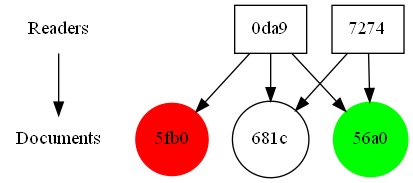
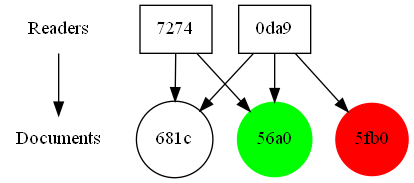
Added database to Alsolikes methods

diff --git a/GUI.py b/GUI.py
@@ -2,6 +2,8 @@ from tkinter import *
 
 import matplotlib
 from PIL import Image, ImageTk
+from matplotlib.backends.backend_tkagg import FigureCanvasTkAgg, NavigationToolbar2Tk
+from matplotlib.figure import Figure
 from pandastable import Table
 
 import Reader
@@ -9,12 +11,11 @@ import Viewer
 import alsoLikes
 
 matplotlib.use("TkAgg")
-from matplotlib.backends.backend_tkagg import FigureCanvasTkAgg, NavigationToolbar2Tk
-from matplotlib.figure import Figure
 
 
 class MyGUIInterface:
-    """This is the Interface package. with the class for GUI"""
+    LABEL_TEXT = ['This is the Interface package.',
+                  'This is the class for GUI,']
 
     def __init__(self, master):
         # Declaration of Variables
@@ -42,6 +43,7 @@ class MyGUIInterface:
         master.configure(background=self.background)
 
     def body(self):
+        """Defines the body of the interface, grid, frames, labels, entry boxes, buttons and their positioning"""
         # Configure grid
         self.master.rowconfigure(0, weight=3)
         self.master.rowconfigure(1, weight=1)
@@ -88,18 +90,20 @@ class MyGUIInterface:
 
         # Dropdown
         view_choice = {'Country', 'Continent', 'Browser', 'All'}
-        self.Drop_Down_views.set('Country')  # set the default option
+        self.Drop_Down_views.set('All')  # set the default option
         view_menu = OptionMenu(self.master, self.Drop_Down_views, *view_choice)
         view_menu.config(bg=self.button_colour, activebackground=self.frame_background, fg=self.text_colour_buttons,
                          activeforeground=self.text_colour_buttons, width=10)
-        view_menu['menu'].config(bg=self.entry_colour, fg=self.text_colour_buttons, borderwidth=0, activeborderwidth=0,
+        view_menu['menu'].config(bg=self.entry_colour, fg=self.text_colour_buttons, borderwidth=0,
+                                 activeborderwidth=0,
                                  activeforeground=self.text_colour_buttons, activebackground=self.frame_background)
         view_menu["highlightthickness"] = 0
 
         sorting_choice = {'Most read', 'Least read'}
         self.Drop_Down_sort.set('Most read')  # set the default option
         sorting_menu = OptionMenu(self.master, self.Drop_Down_sort, *sorting_choice)
-        sorting_menu.config(bg=self.button_colour, activebackground=self.frame_background, fg=self.text_colour_buttons,
+        sorting_menu.config(bg=self.button_colour, activebackground=self.frame_background,
+                            fg=self.text_colour_buttons,
                             activeforeground=self.text_colour_buttons, width=10)
         sorting_menu['menu'].config(bg=self.entry_colour, fg=self.text_colour_buttons, borderwidth=0,
                                     activeborderwidth=0, activeforeground=self.text_colour_buttons,
@@ -120,11 +124,11 @@ class MyGUIInterface:
         graph = Button(self.master, text='Display Graph', width=21, bg=self.button_colour,
                        activebackground=self.frame_background, fg=self.text_colour_buttons,
                        activeforeground=self.text_colour_buttons)
-        graph.bind('<Button-1>', self.sort_choice)
+        graph.bind('<Button-1>', self.graph_alsoLikes)
 
         display.bind('<Button-1>', self.view_display)
 
-        exit_button = Button(self.master, text='Exit')
+        exit_button = Button(self.master, text='Exit', font='100 14 bold', width=10, height=1)
         exit_button.bind('<Button-1>', self.closeGUI)
 
         # Positioning
@@ -162,6 +166,8 @@ class MyGUIInterface:
         exit_button.grid(row=0, column=12, sticky="ne")
 
     def view_display(self, event):
+        """Allows to choose which graph is displayed on the left side of gui, called using Display button on left
+        side """
         if self.Drop_Down_views.get() == 'Country':
             self.country_click()
         if self.Drop_Down_views.get() == 'Continent':
@@ -171,15 +177,8 @@ class MyGUIInterface:
         if self.Drop_Down_views.get() == 'All':
             self.all_click()
 
-    def reader_display(self, event):
-        top10 = Reader.top10('issuu_cw2.json')
-        f = Frame(self.master)
-        f.grid(row=4, column=0, columnspan=5, rowspan=2, sticky='news')
-        self.left_canvas = pt = Table(f, dataframe=top10,
-                                      showtoolbar=True, showstatusbar=True)
-        pt.show()
-
     def country_click(self):
+        """Displays view by country graph on left side"""
         doc = self.document.get()
         database = self.database.get()
         country_group, _ = Viewer.Get_countries(doc, database)
@@ -199,6 +198,7 @@ class MyGUIInterface:
             no_views.grid(row=4, column=0, columnspan=5, rowspan=2, sticky='news')
 
     def continent_click(self):
+        """Displays view by continent graph on left side"""
         doc = self.document.get()
         database = self.database.get()
         _, countries = Viewer.Get_countries(doc, database)
@@ -219,6 +219,7 @@ class MyGUIInterface:
             no_views.grid(row=4, column=0, columnspan=5, rowspan=2, sticky='news')
 
     def browser_click(self):
+        """Displays view by browsers graph on left side"""
         doc = self.document.get()
         database = self.database.get()
         browser_group = Viewer.Get_browser_clean(doc, database)
@@ -238,6 +239,7 @@ class MyGUIInterface:
             no_views.grid(row=4, column=0, columnspan=5, rowspan=2, sticky='news')
 
     def all_click(self):
+        """Displays view by country, continent and browser graphs on left side"""
         doc = self.document.get()
         country_groups, countries = Viewer.Get_countries(doc)
         continent_groups = Viewer.Get_continents(countries)
@@ -267,7 +269,22 @@ class MyGUIInterface:
                              width=24, bg=self.background, fg=self.text_colour)
             no_views.grid(row=4, column=0, columnspan=5, rowspan=2, sticky='news')
 
+    def reader_display(self, event):
+        """Displays top 10 most avid reader table on left side when Show Top 10 readers button is clicked"""
+        top10 = Reader.top10(self.database.get())
+        if not top10.empty:
+            f = Frame(self.master)
+            f.grid(row=4, column=0, columnspan=5, rowspan=2, sticky='news')
+            self.left_canvas = pt = Table(f, dataframe=top10,
+                                          showtoolbar=True, showstatusbar=True)
+            pt.show()
+        else:
+            no_views = Label(self.master, text='Database empty', anchor='center', font=100,
+                             width=24, bg=self.background, fg=self.text_colour)
+            no_views.grid(row=4, column=0, columnspan=5, rowspan=2, sticky='news')
+
     def draw_canvas(self, fig, plot):
+        """Helper function to draw on left canvas"""
         self.left_canvas = FigureCanvasTkAgg(fig, plot)
         self.left_canvas.draw()
         self.left_canvas.get_tk_widget().grid(row=4, column=0, columnspan=5, sticky='news', ipadx=0, ipady=0)
@@ -275,17 +292,25 @@ class MyGUIInterface:
         toolbar.update()
         toolbar.grid(row=5, column=0, columnspan=5, sticky='news')
 
-    def sort_choice(self, event):
-        if self.Drop_Down_sort.get() == 'Most read':
-            self.graph_alsoLikes(alsoLikes.sortDocumentsDesc)
+    def graph_alsoLikes(self, event):
+        """Displays Also likes graph on right canvas when right display button is clicked"""
+        if type(self.document_also) is not str:
+            doc = self.document_also.get()
         else:
-            self.graph_alsoLikes(alsoLikes.sortDocumentsDesc)
-
-    def graph_alsoLikes(self, sort):
-        doc = self.document_also.get()
-        database = self.database_also.get()
-        user = self.user_also.get()
-        graph = alsoLikes.buildGraph(documentIn=doc, userIn=user, sortF=sort)
+            doc = self.document_also
+        if type(self.database_also) is not str:
+            database = self.database_also.get()
+        else:
+            database = self.database_also
+        if type(self.user_also) is not str:
+            user = self.user_also.get()
+        else:
+            user = self.user_also
+        if self.Drop_Down_sort.get() == 'Most read':
+            sortF = alsoLikes.sortDocumentsDesc
+        elif self.Drop_Down_sort.get() == 'Least read':
+            sortF = alsoLikes.sortDocumentsAsc
+        graph = alsoLikes.buildGraph(documentIn=doc, userIn=user, sortF=sortF, database=database)
         graph.render('current_graph')
         graph_im = Image.open("./current_graph.png")
         graph = ImageTk.PhotoImage(graph_im)
@@ -294,9 +319,15 @@ class MyGUIInterface:
         graph_label.grid(row=4, column=7, columnspan=7, rowspan=2, sticky='news')
 
     def closeGUI(self, event):
+        """Closes GUI when exit in top right is clicked"""
         self.master.destroy()
 
 
-root = Tk()
-obj = MyGUIInterface(root)
-root.mainloop()
+def main():
+    root = Tk()
+    obj = MyGUIInterface(root)
+    root.mainloop()
+
+
+if __name__ == "__main__":
+    main()

diff --git a/alsoLikes.py b/alsoLikes.py
@@ -3,13 +3,14 @@ from collections import Counter
 import graphviz
 import numpy
 import pandas as pd
+
 import Viewer as v
 
 
 #  Returns the a list of visitor ids for the users
 #  that have visited the document
-def findReaders(document):
-    df = v.views(document)
+def findReaders(document, database='issuu_cw2.json'):
+    df = v.views(document, database)
     users = df['visitor_uuid']
     return users.values
 
@@ -30,15 +31,17 @@ def sortDocumentsDesc(documents):
     documents = list(dict.fromkeys(documents))
     return documents
 
+
 #  Takes a list of document ids and sorts them in descending order order
 def sortDocumentsAsc(documents):
     documents.sort(key=Counter(documents).get)
     documents = list(dict.fromkeys(documents))
     return documents
 
+
 #  Find most read
-def findTop(documents,documentIn):
-    sorty=documents.copy()
+def findTop(documents, documentIn):
+    sorty = documents.copy()
     sorty.remove(documentIn)
     return sorty[0]
 
@@ -47,13 +50,13 @@ def findTop(documents,documentIn):
 #  and returns a list of the ten documents that have been
 #  read by the most users, sorted with the inputted sorting algorithm
 #  that have also read the input document
-def alsoLikes(document, userIn=None, sortF=sortDocumentsDesc):
-    users = findReaders(document)
+def alsoLikes(document, userIn=None, sortF=sortDocumentsDesc, database='issuu_cw2.json'):
+    users = findReaders(document, database=database)
     if userIn is not None:
         numpy.append(users, userIn)
     documents = []
     for user in users:
-        userDocs = userHasRead(user)
+        userDocs = userHasRead(user, database=database)
         documents.extend(userDocs)
     documents = sortF(documents)[:9]
     return documents
@@ -61,15 +64,15 @@ def alsoLikes(document, userIn=None, sortF=sortDocumentsDesc):
 
 #  Takes a document and optionally a user and a sorting function
 #  and returns a graph based on the documents returned by the alsoLikes
-def buildGraph(documentIn, userIn=None, sortF=sortDocumentsDesc):
-    documents = alsoLikes(documentIn, userIn, sortF)
+def buildGraph(documentIn, userIn=None, sortF=sortDocumentsDesc, database='issuu_cw2.json'):
+    documents = alsoLikes(documentIn, userIn, sortF, database=database)
     graph = graphviz.Digraph()
     topDocument = findTop(documents, documentIn)
 
     graph.node('Documents', 'Documents', shape='plaintext', rank='Documents')
     graph.node('Readers', 'Readers', shape='plaintext', rank='Readers')
     graph.edge('Readers', 'Documents')
-    addedUsers = findReaders(documentIn)
+    addedUsers = findReaders(documentIn, database=database)
     for addedUser in addedUsers:
         userNodeLabel = addedUser[11:15]
         if addedUser == userIn:
@@ -85,7 +88,7 @@ def buildGraph(documentIn, userIn=None, sortF=sortDocumentsDesc):
             graph.node(document, docNodeLabel, style='filled', color='red', shape='circle', rank='Readers')
         else:
             graph.node(document, docNodeLabel, shape='circle', rank='Readers')
-        users = findReaders(document)
+        users = findReaders(document, database=database)
         for user in users:
             if addedUsers.__contains__(user):
                 graph.edge(user, document)
